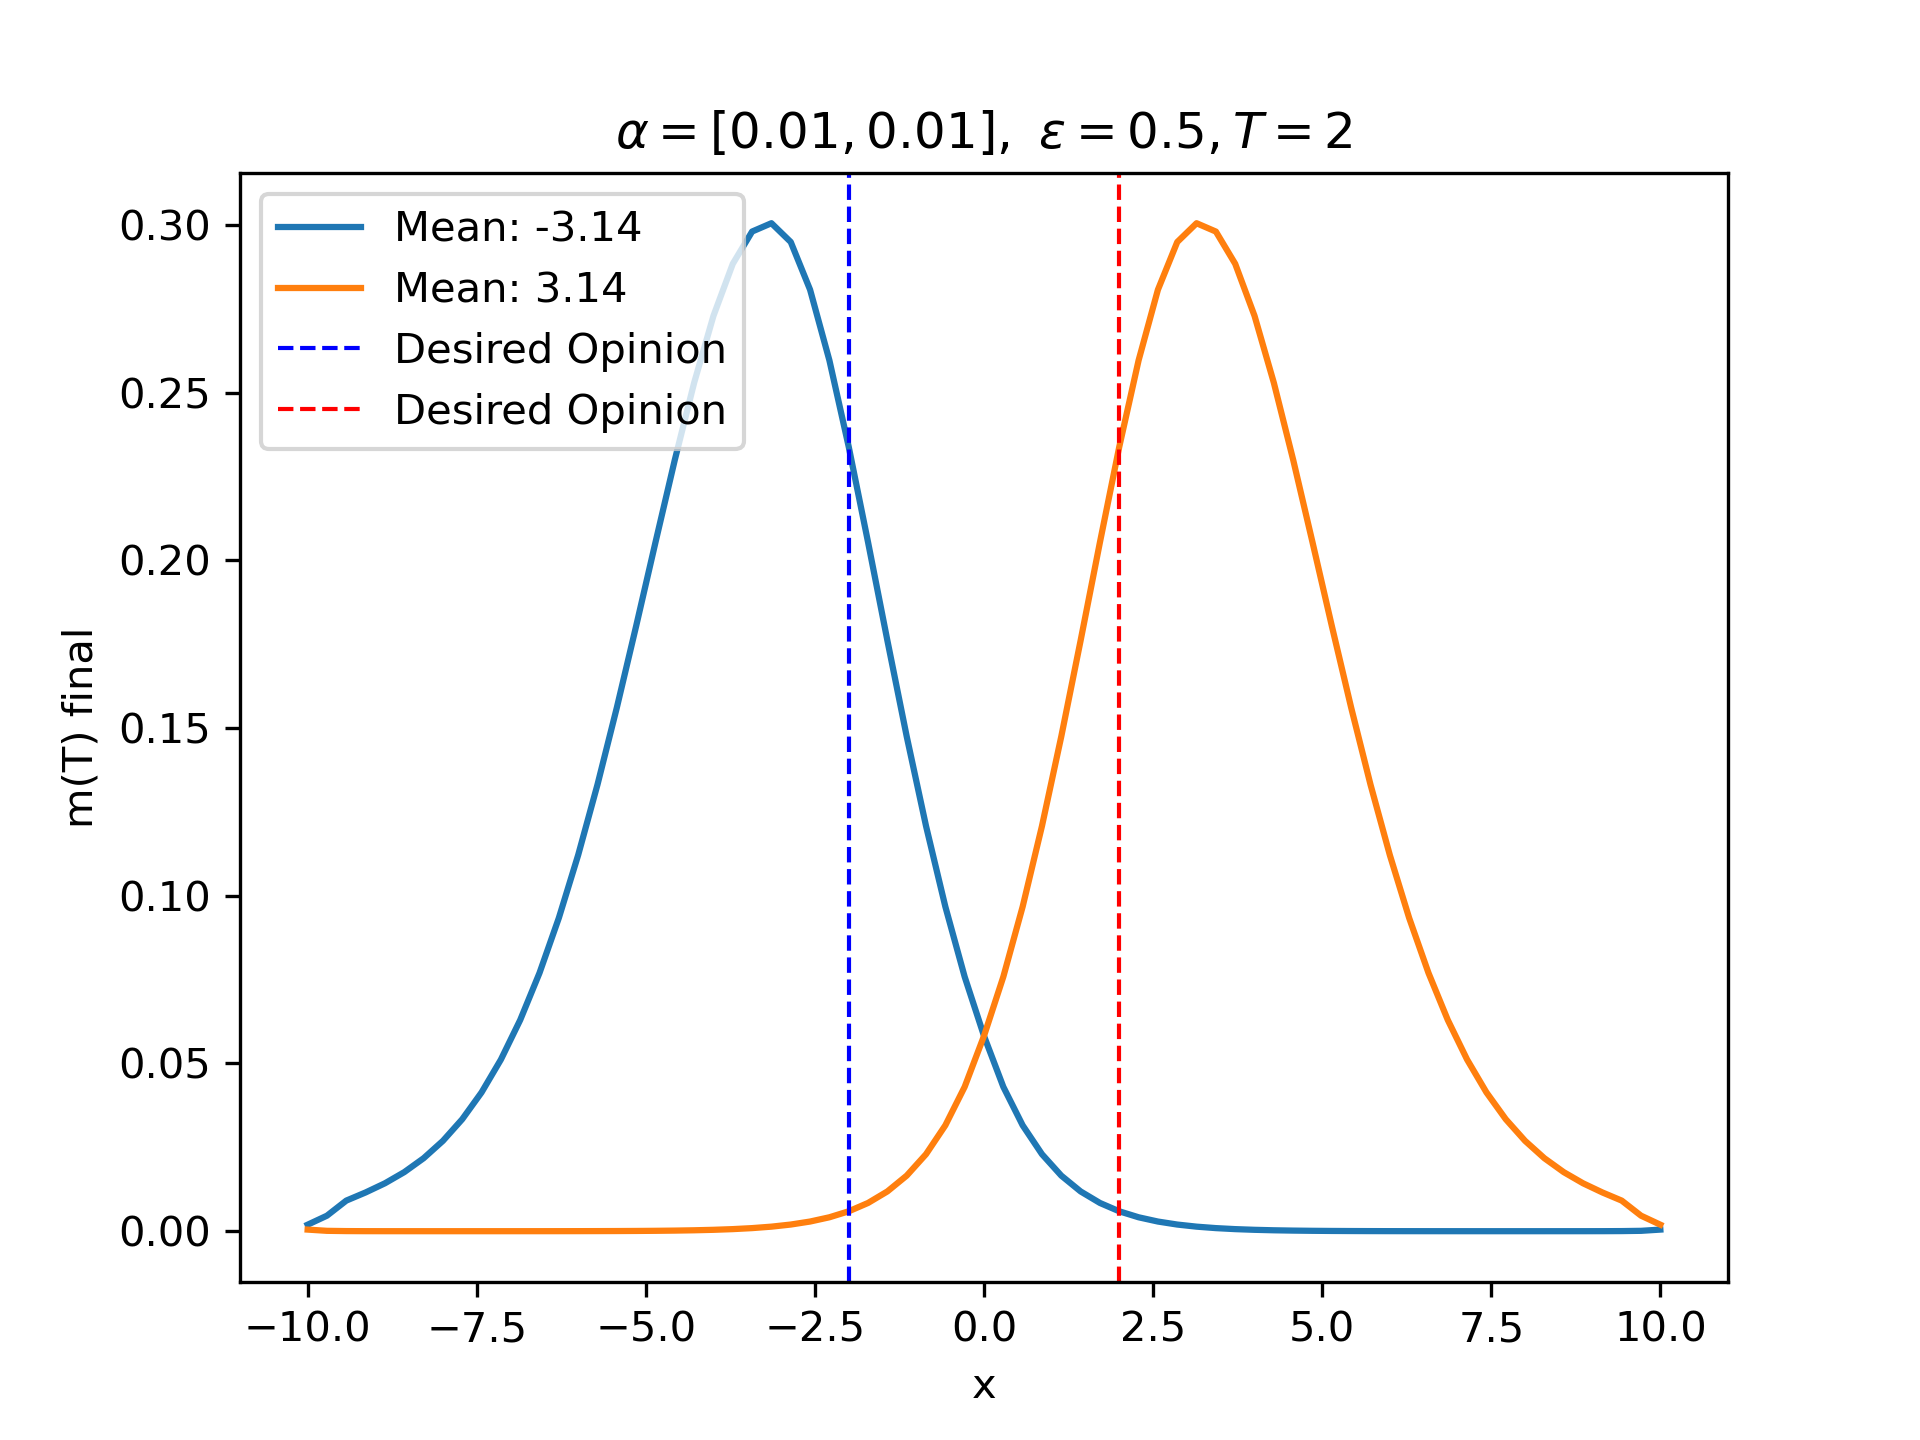
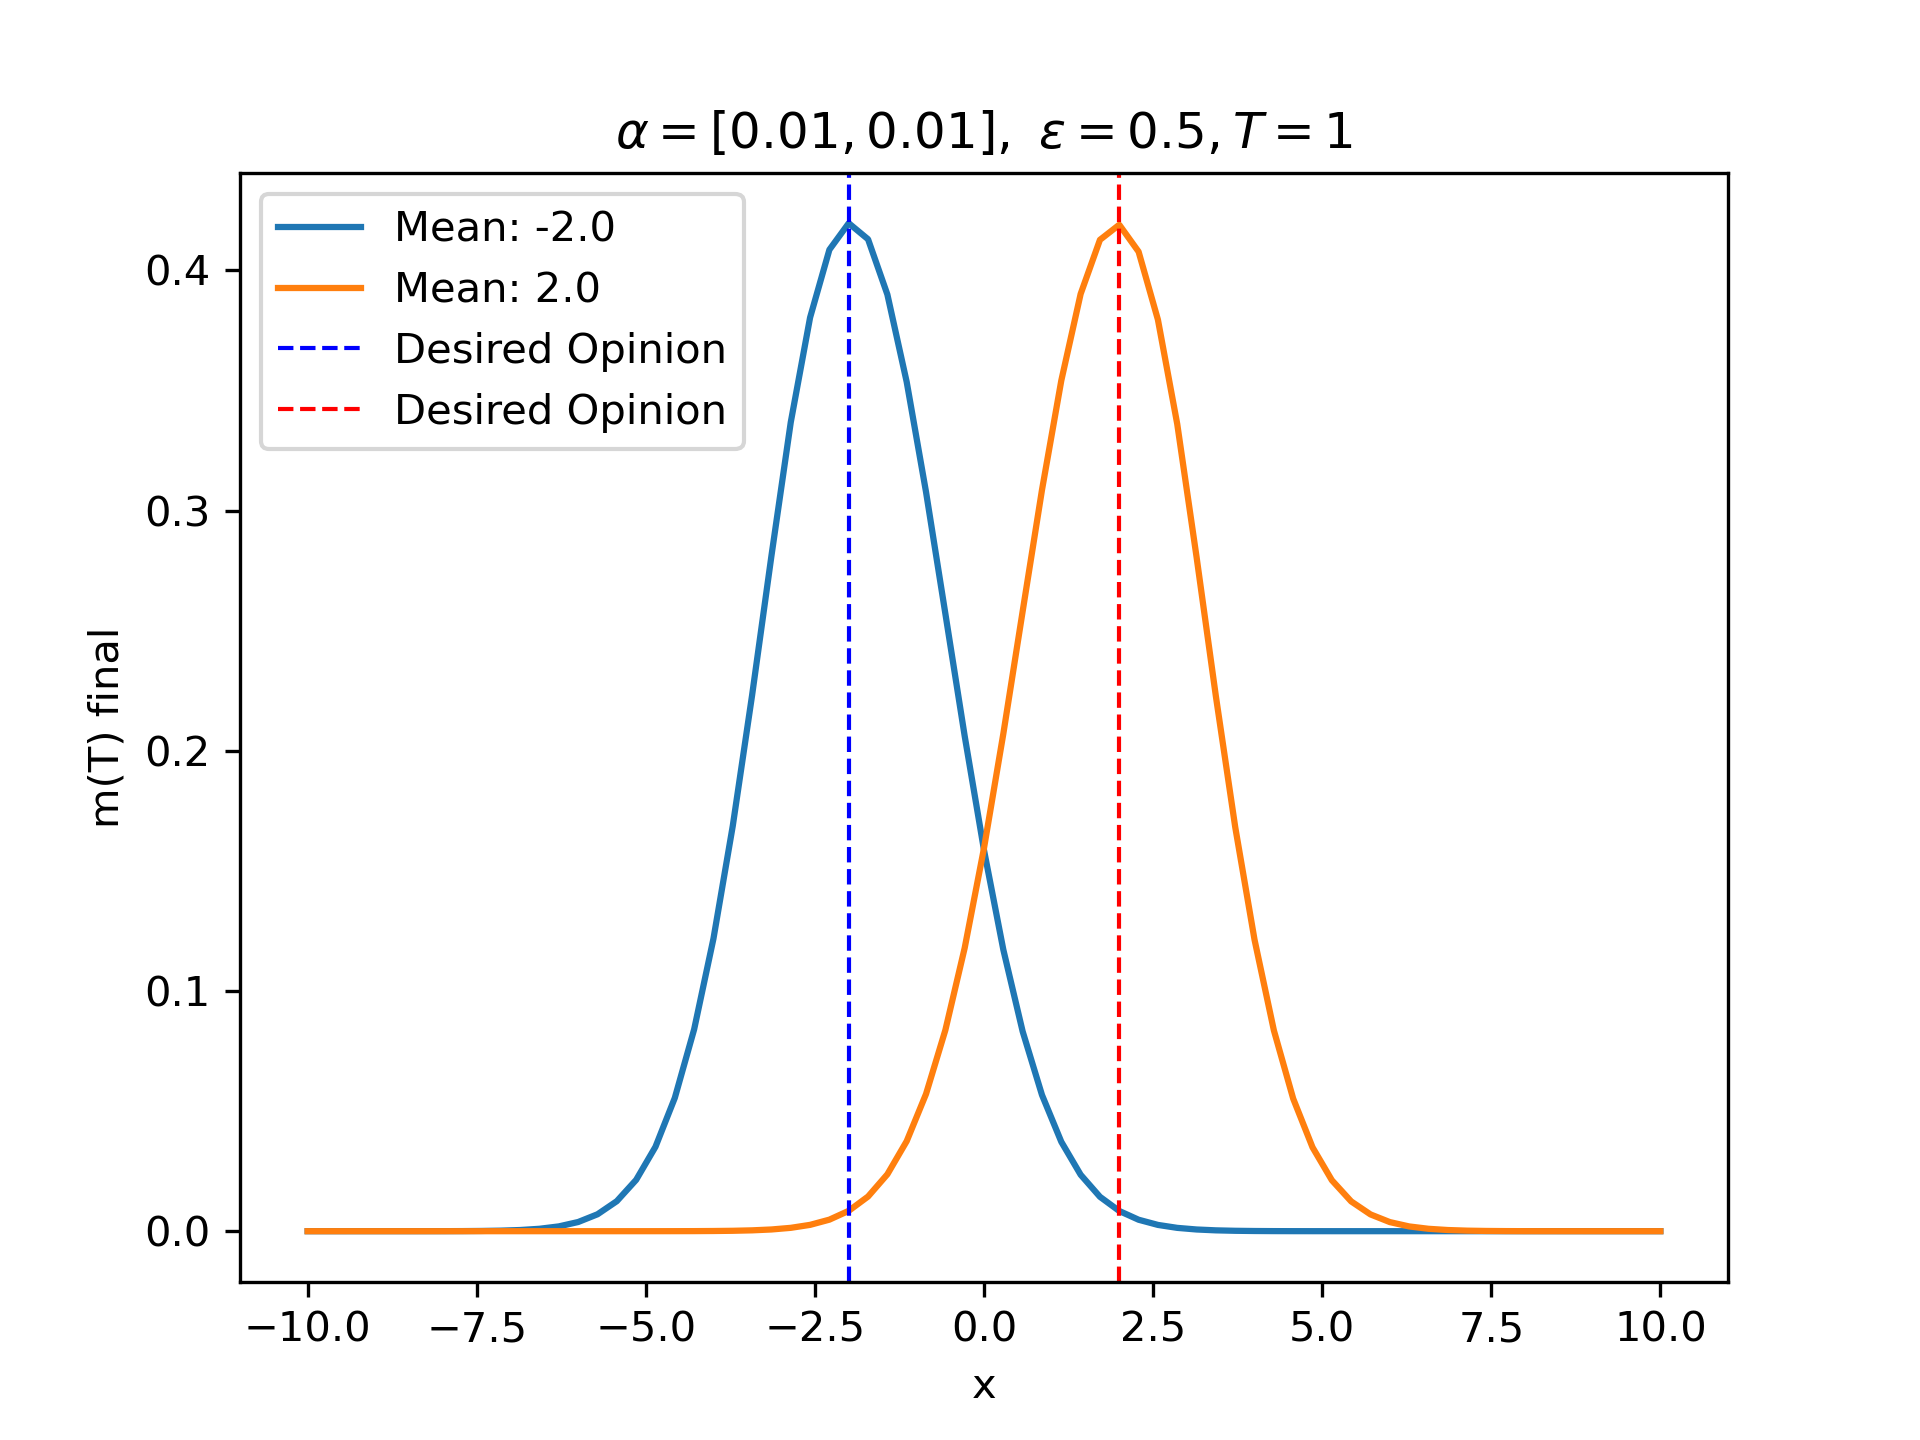
working changes

diff --git a/experiments/two_pop_new.py b/experiments/two_pop_new.py
@@ -9,7 +9,7 @@ import os
 x_d1 = -2
 x_d2 = 2
 os.environ["JAX_TRACEBACK_FILTERING"]="off"
-os.environ["JAX_PLATFORM_NAME"] = 'cpu'
+
 class TwoPopulationMFG(object):
     def __init__(self, T, Nt, xl, xr, N, nu, alphas, sigmas, lambdas, eps):
         self.T = T
@@ -34,10 +34,10 @@ class TwoPopulationMFG(object):
         filtered_x = arr[(arr >= a) & (arr <= b)]
 
         if population_index == 0:
-            midpoint = -0.5
+            midpoint = -1
             sigma_mu = 1
         elif population_index == 1:
-            midpoint = 0.5
+            midpoint = 1
             sigma_mu = 1
         else:
             raise ValueError("Invalid population_index. Must be 0 or 1.")
@@ -49,6 +49,7 @@ class TwoPopulationMFG(object):
 
         mu = np.zeros_like(arr)
         mu[(arr >= a) & (arr <= b)] = pdf_values
+        # mu = mu / mu.sum()
 
         return mu
 
@@ -61,21 +62,24 @@ class TwoPopulationMFG(object):
     def local_kernel(self, x, y):
         dist_squared = (x - y) ** 2
         epsilon_squared = self.eps ** 2
-        res = jnp.exp(1 - epsilon_squared / (epsilon_squared - dist_squared + 1e-15))
+        res = jnp.exp(1 - epsilon_squared / (epsilon_squared - dist_squared + 1e-6))
         return res
 
     def psi(self, Xtk, y, lambda_r, mu_k_t, mu, sigma_k):
+        # Precompute local kernels for the entire grid
+        kernel_values = self.local_kernel(Xtk, self.x_grid)  # Use all grid points
+        lambdas = jnp.array(self.lambdas)
+        mu = jnp.stack(mu)
+        # Precompute contributions from all r
+        denominator_contributions = vmap(
+            lambda r: lambda_r * self.K_d(mu_k_t, mu[r], sigma_k) * jnp.sum(kernel_values * mu[r] * self.h)
+        )(jnp.arange(len(lambdas)))
+
+        # Sum the contributions to form the denominator
+        denominator = jnp.sum(denominator_contributions)
+
+        # Compute the numerator (only for a single y)
         numerator = self.local_kernel(Xtk, y)
-
-        denominator = 0.0
-        kernel_values = self.local_kernel(Xtk, y)
-        for r, lambda_r in enumerate(self.lambdas):
-            K_d_value = self.K_d(mu_k_t, mu[r], sigma_k)
-
-
-            integral_approx = jnp.sum(jnp.multiply(kernel_values, mu[r]) * self.h)
-
-            denominator += lambda_r * K_d_value * integral_approx
 
         return numerator / (denominator + 1e-6)
 
@@ -96,25 +100,19 @@ class TwoPopulationMFG(object):
         M = M.at[0, :].set(M0)
         return U, M
 
-    def wasserstein_1(self, points1, points2, weights1=None, weights2=None):
-        n, = points1.shape
-        m,  = points2.shape
+    def wasserstein_1(self, weights1, weights2):
+        a, b = -5, 5
+        mask = (self.x_grid >= a) & (self.x_grid <= b)
+        points = self.x_grid[mask]
+        weights1 = weights1[mask]
+        weights2 = weights2[mask]
 
-            # Default to uniform weights if not provided
-        if weights1 is None:
-            weights1 = jnp.ones(n) / n
-        if weights2 is None:
-            weights2 = jnp.ones(m) / m
+        # Compute cumulative distributions
+        cdf1 = jnp.cumsum(weights1)
+        cdf2 = jnp.cumsum(weights2)
 
-        # Compute cost matrix
-        cost_matrix = jnp.abs(points1[:, None] - points2[None, :])
-
-        # Assign each row to the column with the minimum cost (greedy assignment)
-        col_ind = jnp.argmin(cost_matrix, axis=1)
-        row_ind = jnp.arange(cost_matrix.shape[0])
-
-        # Compute Wasserstein distance
-        distance = jnp.sum(cost_matrix[row_ind, col_ind] * jnp.minimum(weights1[row_ind], weights2[col_ind]))
+        # Compute Wasserstein distance as area between CDFs
+        distance = jnp.sum(jnp.abs(cdf1 - cdf2) * jnp.diff(points, prepend=points[0]))
         return distance
 
     def K_d(self, x, y, sigma):
@@ -123,45 +121,25 @@ class TwoPopulationMFG(object):
 
         return kernel_values
 
+
     def G_m(self, x, mu, population_index):
         alpha_k = self.alphas[population_index]
         sigma_k = self.sigmas[population_index]
+        lambdas = jnp.array(self.lambdas)
+        mu = jnp.stack(mu)
+        # Precompute kernel values for all r
+        kernel_values = vmap(lambda r, mu_r: self.K_d(mu[population_index], mu_r, sigma_k))(
+            jnp.arange(len(lambdas)), mu
+        )
 
-        interaction_term = 0.0
+        # Compute the integral and interaction terms in a single loop
+        def compute_interaction(r, mu_r):
+            psi_values = self.psi(x, self.x_grid, lambdas[r], mu[population_index], mu, sigma_k)
+            integral = jnp.sum(psi_values * self.x_grid * mu_r * self.h)
+            return lambdas[r] * kernel_values[r] * integral
 
-        for r, lambda_r in enumerate(self.lambdas):
-            K_d_value = self.K_d(mu[population_index], mu[r], sigma_k)
-
-            psi_values = vmap(
-                lambda y: self.psi(x, y, lambda_r, mu[population_index], [mu[population_index], mu[r]], sigma_k) * y *
-                          mu[r]
-            )(self.x_grid)
-
-            integral_approximation = jnp.sum(psi_values) * self.h
-
-            interaction_term += lambda_r * integral_approximation * K_d_value
-
-        # Final computation
-        G_M_value = alpha_k * x - alpha_k * interaction_term
-
-        return G_M_value
-
-    def G_m2(self, x, mu, population_index):
-        alpha_k = self.alphas[population_index]
-        sigma_k = self.sigmas[population_index]
-
-        interaction_term = 0.0
-
-        for r, lambda_r in enumerate(self.lambdas):
-            K_d_value = self.K_d(mu[population_index], mu[r], sigma_k)
-
-            psi_values = vmap(
-                lambda y: self.psi(x, y, lambda_r, mu[population_index], [mu[population_index], mu[r]], sigma_k) * y *
-                          mu[r]
-            )(self.x_grid)
-            integral_approximation = jnp.sum(psi_values) * self.h
-
-            interaction_term += lambda_r * integral_approximation * K_d_value
+        # Vectorize the interaction computation
+        interaction_term = jnp.sum(vmap(compute_interaction)(jnp.arange(len(lambdas)), mu))
 
         # Final computation
         G_M_value = alpha_k * x - alpha_k * interaction_term
@@ -220,7 +198,7 @@ class TwoPopulationMFG(object):
 
         A = - (dGqDifference1 + dGqs2R - dGqs1L) / self.h
 
-        b = vmap(lambda x: self.G_m2(x, [M1, M2], idx))(self.x_grid)
+        b = vmap(lambda x: self.G_m(x, [M1, M2], idx))(self.x_grid)
         bp1 = lambda x: jnp.minimum(x, 0)
         bp2 = lambda x: jnp.maximum(x, 0)
 
@@ -346,18 +324,18 @@ class TwoPopulationMFG(object):
 
 
 cfg = munch.munchify({
-    'T' : 2,
-    'Nt': 31,
-    'xl': -6,
-    'xr': 6,
+    'T' : 1,
+    'Nt': 21,
+    'xl': -7,
+    'xr': 7,
     'N' : 71,
     'nu': 0.5,
     'alphas': [0.01, 0.01],
-    'sigmas': [0.01, 0.01],
+    'sigmas': [0.0001, 0.0001],
     'lambdas': [0.5, 0.5],
     'eps': 0.5,
     'hjb_epoch': 50,
-    'hjb_lr': 0.5,
+    'hjb_lr': 1,
     'epoch': 50,
     'lr': 1,
     'tol': 10 ** (-5),
@@ -378,14 +356,14 @@ U1, M1, U2, M2 = solver.solve(cfg.tol, cfg.epoch, cfg.hjb_lr, cfg.hjb_epoch)
  # Assuming cfg, U1, U2, M1, M2, x_d1, and x_d2 are already defined
 TT = np.linspace(0, cfg.T, cfg.Nt)
 XX = np.linspace(-10, 10, cfg.N)
-max_idx1 = np.argmax(M1[-1, :]).item()
+max_idx1 = np.argmax(M1[10, :]).item()
 max_init1= np.argmax(M1[0, :]).item()
 max_item1 = XX[max_idx1]
 max_item_init1= XX[max_init1]
 final_mean1 = max_item1
 init_mean1 = max_item_init1
 
-max_idx2 = np.argmax(M2[-1, :]).item()
+max_idx2 = np.argmax(M2[10, :]).item()
 max_init2= np.argmax(M2[0, :]).item()
 max_item2 = XX[max_idx2]
 max_item_init2= XX[max_init2]
@@ -412,8 +390,8 @@ plt.show()
 
 # Final distribution for both populations with updated legends
 plt.figure()
-plt.plot(XX, M1[-1, :], label=f'Mean: {round(final_mean1, 2)}')  # More descriptive name for M1(T)
-plt.plot(XX, M2[-1, :], label=f'Mean: {round(final_mean2, 2)}')  # More descriptive name for M2(T)
+plt.plot(XX, M1[10, :], label=f'Mean: {round(final_mean1, 2)}')  # More descriptive name for M1(T)
+plt.plot(XX, M2[10, :], label=f'Mean: {round(final_mean2, 2)}')  # More descriptive name for M2(T)
 plt.axvline(x=x_d1, color='Blue', linestyle='--', linewidth=1, label=r'Desired Opinion')  # LaTeX for subscript
 plt.axvline(x=x_d2, color='Red', linestyle='--', linewidth=1, label=r'Desired Opinion')  # LaTeX for subscript
 plt.xlabel('x')

diff --git a/experiments/two_populaional.py b/experiments/two_populaional.py
@@ -6,7 +6,6 @@ from jax import jacfwd, vmap
 from jax.scipy.stats import norm, truncnorm
 import munch
 import os
-from ott.tools import wassdis_p
 x_d1 = -2
 x_d2 = 2
 os.environ["JAX_TRACEBACK_FILTERING"]="off"
